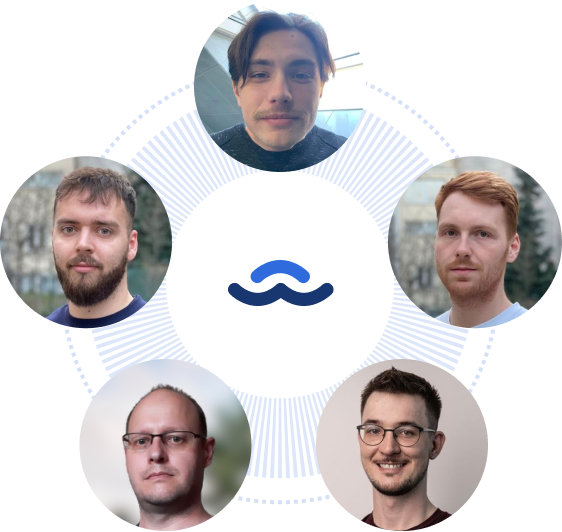
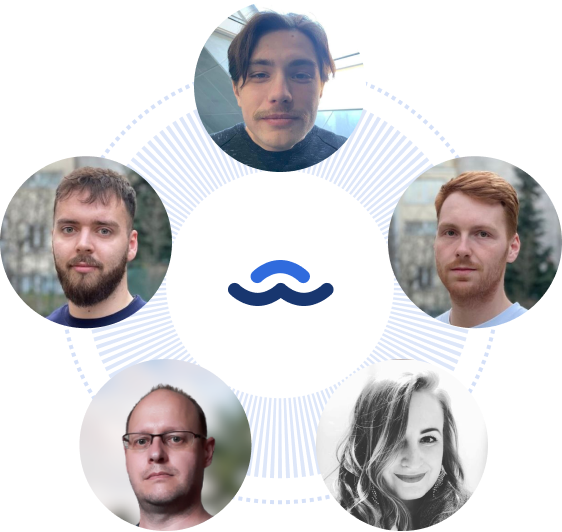
Edit team photo, buttons & emails

Changed region(s): [[0.5445, 0.6617, 0.8772, 1.0]]

diff --git a/components/navbar.tsx b/components/navbar.tsx
@@ -35,10 +35,10 @@ export const Navbar = () => {
                     <nav className="flex justify-center items-center w-52 h-12 rounded-3xl bg-blue text-white">
                         {/*Hack to have clickable the whole button*/}
                         <a
-                            href="https://app.colabu.cz/register"
+                            href="https://app.colabu.cz"
                             className="flex w-full h-full justify-center items-center"
                         >
-                            Registrovat se
+                            Přihlásit se
                         </a>
                     </nav>
                 </div>
@@ -117,10 +117,10 @@ export const Navbar = () => {
                         <nav className="flex justify-center items-center w-52 h-12 rounded-3xl bg-blue text-white">
                             {/*Hack to have clickable the whole button*/}
                             <a
-                                href="https://app.colabu.cz/register"
+                                href="https://app.colabu.cz"
                                 className="flex w-full h-full justify-center items-center"
                             >
-                                Registrovat se
+                                Přihlásit se
                             </a>
                         </nav>
                     </div>

diff --git a/components/footer.tsx b/components/footer.tsx
@@ -7,7 +7,7 @@ export const Footer = () => {
                 <div className="flex justify-center items-center">
                     <Image src="/envelope.svg" alt="Envelope icon" width="24" height="24"/>
                     <div className="pl-3">
-                        <a href="mailto:info@colabu.cz">info@colabu.cz</a>
+                        <a href="mailto:podpora@colabu.cz">podpora@colabu.cz</a>
                     </div>
                 </div>
                 <div className="flex justify-center items-center mt-5 lg:mt-0 lg:ml-5">

diff --git a/pages/index.tsx b/pages/index.tsx
@@ -23,7 +23,7 @@ const Home: NextPage = () => {
                     </p>
                 </ItemWrapper>
                 <ItemMargin>
-                    <Button text="Začít spolupracovat" link="mailto:info@colabu.cz"/>
+                    <Button text="Začít spolupracovat" link="mailto:podpora@colabu.cz"/>
                 </ItemMargin>
                 <ItemMargin className="lg:hidden mt-10">
                     <Image src="/product.png" alt="Product showcase" width="300" height="180"/>

diff --git a/components/section-customers.tsx b/components/section-customers.tsx
@@ -31,7 +31,7 @@ export const SectionCustomers: React.FC = () => (
             </ItemMargin>
         </div>
         <ItemMargin>
-            <Button text="Začít spolupracovat" link="mailto:info@colabu.cz"/>
+            <Button text="Začít spolupracovat" link="mailto:podpora@colabu.cz"/>
         </ItemMargin>
     </SectionWrapper>
 );
